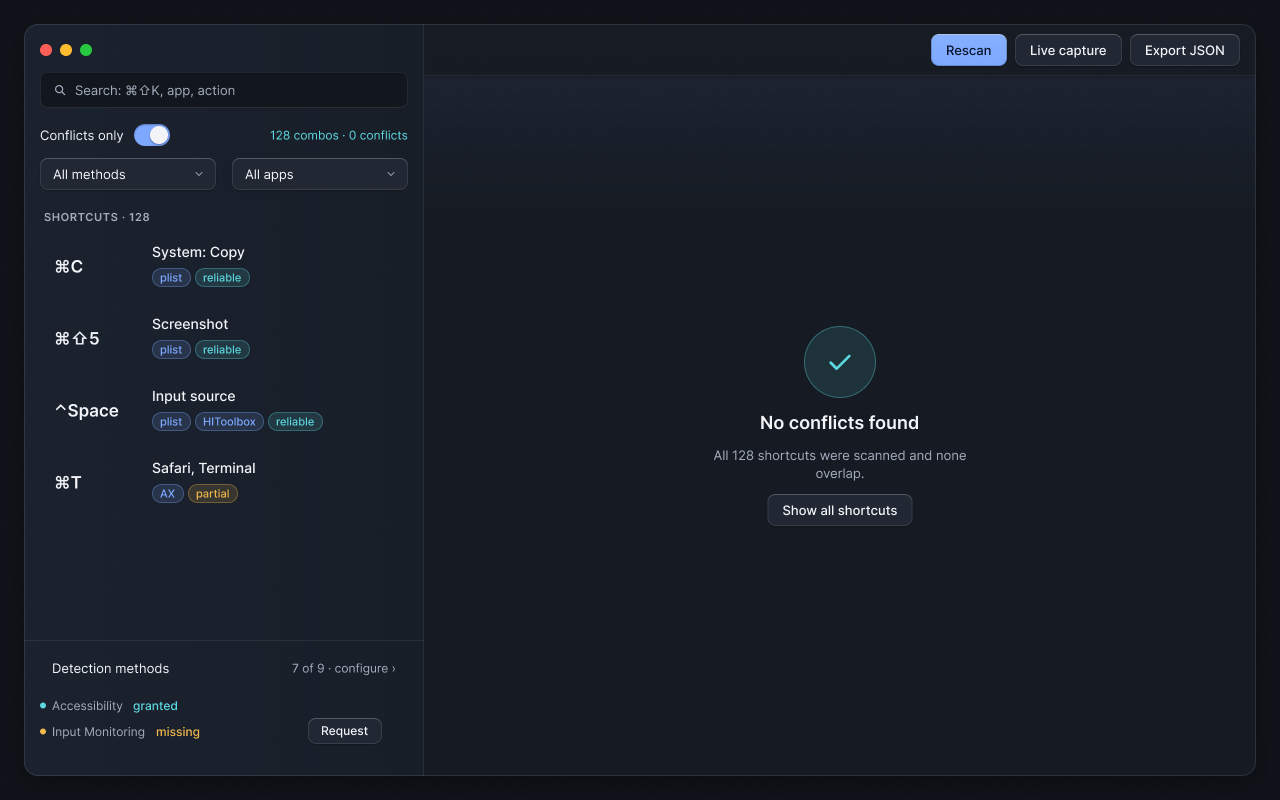
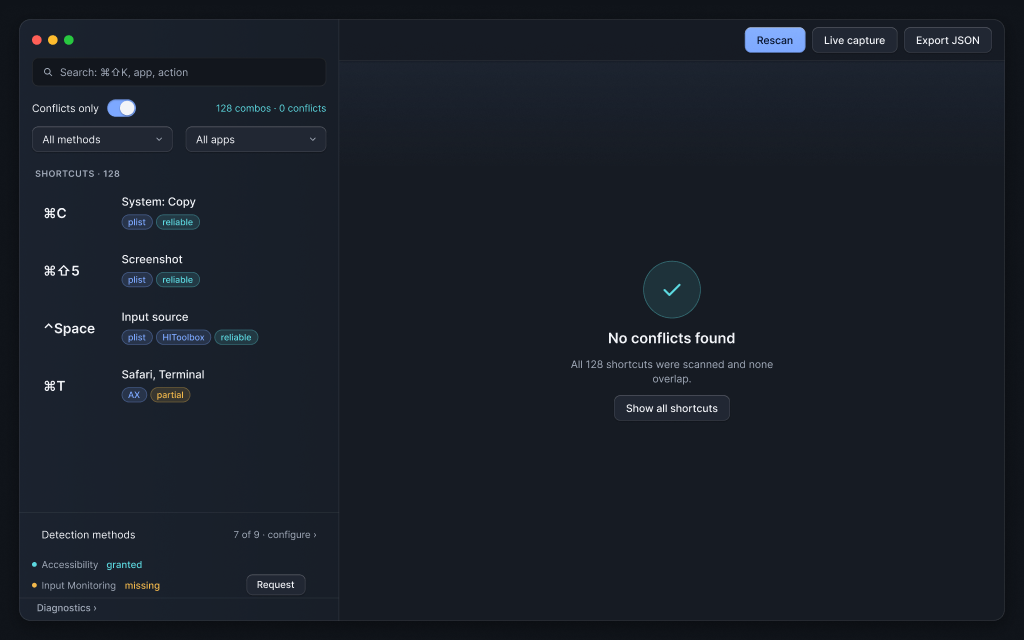
Row confidence/layout badges, copy alignment, design/ tokens, docs and Figma-exported screens

diff --git a/Sources/ShortcutClash/ContentView.swift b/Sources/ShortcutClash/ContentView.swift
@@ -173,28 +173,26 @@ struct SidebarView: View {
     @ViewBuilder private var listArea: some View {
         let rows = model.filteredGroups
         if model.isScanning && model.groups.isEmpty {
-            EmptyStateView(icon: .scan, tone: .accent, title: "Scanning shortcuts…",
-                           message: "Reading system settings, app menus and config files. This takes a few seconds.")
+            EmptyStateView(icon: .scan, tone: .accent, title: "Scanning…",
+                           message: "Running all enabled detection methods.")
         } else if model.scanFailed {
             EmptyStateView(icon: .warning, tone: .danger, title: "Scan failed",
-                           message: "No detection method could read shortcuts. Check diagnostics for the reason, then try again.",
-                           actions: [EmptyAction(title: "Try again", primary: true) { model.rescan() },
-                                     EmptyAction(title: "Open diagnostics") { model.showDiagnostics = true }])
+                           message: "One or more detection methods failed. Open Diagnostics for details.",
+                           actions: [EmptyAction(title: "Rescan", primary: true) { model.rescan() },
+                                     EmptyAction(title: "Diagnostics") { model.showDiagnostics = true }])
         } else if model.permissionNeeded {
-            EmptyStateView(icon: .lock, tone: .warn, title: "Permission needed",
-                           message: "Accessibility access lets ShortcutClash read app menus. Grant it in System Settings, then rescan.",
-                           actions: [EmptyAction(title: "Grant access", primary: true) { model.requestAccessibility() },
+            EmptyStateView(icon: .lock, tone: .warn, title: "Accessibility permission required",
+                           message: "Needed to read app menus and the global NSEvent monitor.",
+                           actions: [EmptyAction(title: "Request", primary: true) { model.requestAccessibility() },
                                      EmptyAction(title: "Open Settings") { Permissions.openSettings(for: .accessibility) }])
         } else if rows.isEmpty {
             if model.hasActiveFilters {
-                EmptyStateView(icon: .search, tone: .muted, title: "No matching shortcuts",
-                               message: model.trimmedQuery.isEmpty
-                                   ? "No shortcut matches the selected method or app."
-                                   : "Nothing matches “\(model.trimmedQuery)”. Try a key combination, an app name or an action.",
-                               actions: [EmptyAction(title: "Clear filters") { model.clearFilters() }])
+                EmptyStateView(icon: .search, tone: .accent, title: "Nothing found",
+                               message: "No shortcut matches your search. Try an app name, an action or a key combination.",
+                               actions: [EmptyAction(title: "Clear search") { model.clearFilters() }])
             } else if model.onlyConflicts && model.conflictCount == 0 {
                 EmptyStateView(icon: .check, tone: .ok, title: "No conflicts found",
-                               message: "Every shortcut found by the enabled methods has a single owner.",
+                               message: "All \(model.groups.count) shortcuts were scanned and none overlap.",
                                actions: [EmptyAction(title: "Show all shortcuts") { model.onlyConflicts = false }])
             } else {
                 EmptyStateView(icon: .search, tone: .muted, title: "No shortcuts found",
@@ -290,13 +288,13 @@ struct GroupRow: View {
                     .lineLimit(1)
                     .frame(maxWidth: .infinity, alignment: .leading)
                 ViewThatFits(in: .horizontal) {
-                    badges(limit: 3)
                     badges(limit: 2)
                     badges(limit: 1)
+                    badges(limit: 0)
                 }
             }
             trailing
-                .frame(width: Theme.Size.bead, height: Theme.Size.bead)
+                .frame(minWidth: Theme.Size.bead, minHeight: Theme.Size.bead)
         }
         .padding(.horizontal, 12)
         .frame(height: Theme.Size.row)
@@ -312,6 +310,9 @@ struct GroupRow: View {
         let methods = group.methods
         return HStack(spacing: 4) {
             ForEach(methods.prefix(limit)) { Badge(text: MethodShortName.of($0), tone: .accent) }
+            if let worst = group.findings.map(\.confidence).max() {
+                Badge(text: worst.label.lowercased(), tone: worst.tone)
+            }
             if methods.count > limit { Badge(text: "+\(methods.count - limit)") }
             if allOff { Badge(text: "Off") }
         }
@@ -324,7 +325,7 @@ struct GroupRow: View {
             CountBead(count: group.activeOwners.count)
                 .help("Conflict: \(group.activeOwners.count) owners")
         case .layoutConflict:
-            Image(systemName: "globe").foregroundStyle(Theme.warn).help("Layout conflict")
+            Badge(text: "layout", tone: .warn).help("Layout conflict")
         case .inAppDuplicate where showDuplicates:
             Image(systemName: "square.on.square").foregroundStyle(Theme.muted).help("Duplicate inside one app")
         default:
@@ -346,13 +347,18 @@ struct SidebarFooter: View {
                         MethodsView().environmentObject(model)
                     }
                 Spacer(minLength: 8)
-                Text("\(model.enabled.count) of \(model.strategies.count) enabled")
+                Text("\(model.enabled.count) of \(model.strategies.count) · configure")
                     .font(.system(size: 12)).foregroundStyle(Theme.muted)
-                    .padding(.trailing, 8)
-                FooterLink(title: "Diagnostics") { model.showDiagnostics = true }
+                Image(systemName: "chevron.right").font(.system(size: 9, weight: .semibold))
+                    .foregroundStyle(Theme.muted).padding(.leading, 4)
             }
             Rectangle().fill(Theme.hairline).frame(height: 1)
             PermissionBar()
+            Rectangle().fill(Theme.hairline).frame(height: 1)
+            HStack(spacing: 0) {
+                FooterLink(title: "Diagnostics") { model.showDiagnostics = true }
+                Spacer(minLength: 8)
+            }
         }
         .padding(.horizontal, 16)
         .padding(.vertical, 12)

diff --git a/Sources/ShortcutClash/PreviewFixtures.swift b/Sources/ShortcutClash/PreviewFixtures.swift
@@ -29,7 +29,7 @@ extension AppModel {
         results = PreviewFixtures.results(.healthy)
         findings = PreviewFixtures.findings
         regroup()
-        selection = groups.first?.id
+        selection = groups.first { $0.combo.display == "⌘Space" }?.id ?? groups.first?.id
 
         switch scenario {
         case .main:
@@ -38,7 +38,7 @@ extension AppModel {
             selection = nil
         case .noConflicts:
             findings = PreviewFixtures.findings.filter { $0.owner.name != "Alfred" && $0.owner.name != "Raycast"
-                && $0.owner.name != "CleanShot X" && $0.owner.name != "Hammerspoon" }
+                && $0.owner.name != "CleanShot X" && $0.owner.name != "Hammerspoon" && $0.action != "Comment Selection" }
             regroup()
             onlyConflicts = true
             selection = nil
@@ -98,9 +98,9 @@ enum PreviewFixtures {
 
     private static func hot(_ combo: KeyCombo, _ owner: HotKeyOwner, _ method: DiscoveryMethod,
                             _ confidence: Confidence, _ scope: HotKeyScope, _ action: String, source: String,
-                            enabled: Bool = true) -> DiscoveredHotKey {
+                            enabled: Bool = true, character: String? = nil) -> DiscoveredHotKey {
         DiscoveredHotKey(combo: combo, owner: owner, method: method, confidence: confidence, scope: scope,
-                         action: action, enabled: enabled, source: source)
+                         action: action, enabled: enabled, source: source, definingCharacter: character)
     }
 
     static let findings: [DiscoveredHotKey] = {
@@ -144,6 +144,10 @@ enum PreviewFixtures {
             hot(cmdN, notes, .accessibilityMenus, .reliable, .inApp, "New Note", source: "AX: File ▸ New Note"),
             hot(cmdD, safari, .accessibilityMenus, .reliable, .inApp, "Add Bookmark…", source: "AX: Bookmarks ▸ Add Bookmark…"),
             hot(cmdB, notes, .accessibilityMenus, .reliable, .inApp, "Bold", source: "AX: Format ▸ Font ▸ Bold"),
+            hot(combo(44, .command), xcode, .accessibilityMenus, .heuristic, .inApp, "Comment Selection",
+                source: "AX: Editor ▸ Structure ▸ Comment Selection", character: "/"),
+            hot(combo(27, .command), macOS, .symbolicHotKeys, .reliable, .global, "Zoom out",
+                source: "com.apple.symbolichotkeys · AppleSymbolicHotKeys 19"),
             hot(optSpace, macOS, .symbolicHotKeys, .reliable, .global, "Select the previous input source",
                 source: "com.apple.symbolichotkeys · AppleSymbolicHotKeys 60", enabled: false),
         ]
@@ -151,7 +155,9 @@ enum PreviewFixtures {
 
     static let layouts = LayoutSnapshot(layouts: [
         .init(id: "com.apple.keylayout.ABC", name: "ABC", isCurrent: true, isASCIICapable: true,
-              unshifted: [49: " ", 21: "4", 40: "k", 17: "t"], shifted: [21: "$", 40: "K", 17: "T"]),
+              unshifted: [49: " ", 21: "4", 40: "k", 17: "t", 44: "/"], shifted: [21: "$", 40: "K", 17: "T"]),
+        .init(id: "com.apple.keylayout.Dvorak", name: "Dvorak", isCurrent: false, isASCIICapable: true,
+              unshifted: [49: " ", 27: "/", 44: "z"], shifted: [27: "?"]),
         .init(id: "com.apple.keylayout.Ukrainian-PC", name: "Ukrainian", isCurrent: false, isASCIICapable: false,
               unshifted: [49: " ", 21: "4", 40: "л", 17: "е"], shifted: [21: ";", 40: "Л", 17: "Е"]),
     ], perDocumentInputSource: false)

diff --git a/Sources/ShortcutClash/DetailView.swift b/Sources/ShortcutClash/DetailView.swift
@@ -11,8 +11,8 @@ struct DetailPane: View {
             if let group = model.group(with: model.selection) {
                 DetailView(group: group)
             } else {
-                EmptyStateView(icon: .cursor, tone: .muted, title: "Select a shortcut",
-                               message: "Pick a key combination on the left to see who owns it and which method found it.")
+                EmptyStateView(icon: .cursor, tone: .accent, title: "Select a shortcut",
+                               message: "Pick a shortcut on the left to see who owns it and how it was detected.")
             }
         }
         .frame(maxWidth: .infinity, maxHeight: .infinity)
@@ -68,12 +68,12 @@ struct DetailView: View {
                 winnerLine(ranking)
             }
             HStack(alignment: .center, spacing: 8) {
-                Text("Detected by").font(.system(size: 12)).foregroundStyle(Theme.muted)
+                Text("Detected by:").font(.system(size: 12)).foregroundStyle(Theme.muted)
                 FlowLayout {
-                    ForEach(group.methods) { Badge(text: StrategyRegistry.displayName($0), tone: .accent) }
+                    ForEach(group.methods) { Badge(text: MethodShortName.of($0), tone: .accent) }
                 }
             }
-            Text("Key code \(group.combo.keyCode) · modifiers: \(group.combo.modifiers.symbols.isEmpty ? "none" : group.combo.modifiers.symbols)")
+            Text("Key code: \(group.combo.keyCode) · modifiers: \(group.combo.modifiers.symbols.isEmpty ? "none" : group.combo.modifiers.symbols)")
                 .font(.system(size: 12, design: .monospaced))
                 .foregroundStyle(Theme.muted)
         }
@@ -97,7 +97,7 @@ struct DetailView: View {
     private var explanation: String {
         switch group.status {
         case .conflict:
-            return "Several owners claim this shortcut and at least one is global, so only one of them fires."
+            return "This shortcut is claimed by several owners, and at least one of them is global, so only one of them will fire."
         case .layoutConflict:
             return "The shortcut itself is free, but in another enabled keyboard layout its character lands on a key that is already taken."
         case .inAppDuplicate:

diff --git a/design/tokens.css b/design/tokens.css
@@ -197,3 +197,15 @@
   :root { --sc-dur-press: 0ms; --sc-dur-focus: 0ms; --sc-dur-hover: 0ms; --sc-dur-input-focus: 0ms; --sc-dur-switch: 0ms; --sc-dur-release: 0ms; --sc-dur-theme: 0ms; }
   .sc-button:hover { transform: none; }
 }
+
+/* Added with the app screens (methods popover, live capture and diagnostics sheets, footer). */
+:root {
+  --sc-size-popover-w: 520px; --sc-size-popover-h: 600px; --sc-size-popover-header: 52px;
+  --sc-size-sheet-w: 640px; --sc-size-sheet-capture-h: 520px; --sc-size-sheet-diagnostics-h: 560px; --sc-size-sheet-header: 56px;
+  --sc-size-status-dot: 6px; --sc-size-footer-row: 26px; --sc-size-footer-link: 24px;
+}
+.sc-popover, .sc-sheet { background: var(--sc-surface); border: 1px solid var(--sc-border); border-radius: var(--sc-radius-card); box-shadow: 0 6px 24px var(--sc-shadow); }
+.sc-hairline { height: 1px; background: var(--sc-hairline); }
+.sc-footer-link { color: var(--sc-muted); font: 500 12px/16px var(--sc-font-sans); height: 24px; padding: 0 6px; background: none; border: 0; }
+.sc-footer-link:hover { color: var(--sc-fg); }
+.sc-footer-link:focus-visible { outline: 2px solid var(--sc-focus-ring); border-radius: 6px; }

diff --git a/Sources/ShortcutClash/LiveCaptureView.swift b/Sources/ShortcutClash/LiveCaptureView.swift
@@ -76,9 +76,9 @@ struct LiveCaptureView: View {
         @ViewBuilder private func logArea(_ display: CaptureDisplay) -> some View {
             if display.observations.isEmpty {
                 if display.isRunning {
-                    EmptyStateView(icon: .record, tone: .accent, title: "Waiting for key presses",
-                                   message: "Press a shortcut anywhere. It will show up here with the verdict on who received it.",
-                                   actions: [EmptyAction(title: "Stop recording") { model.toggleCapture() }])
+                    EmptyStateView(icon: .record, tone: .accent, title: "Waiting for key presses…",
+                                   message: "Press a shortcut with ⌘, ^, ⌥ or an F-key. Plain typing is not recorded.",
+                                   actions: [EmptyAction(title: "Stop") { model.toggleCapture() }])
                 } else {
                     EmptyStateView(icon: .record, tone: .muted, title: "Live capture is off",
                                    message: "Start recording, then press a shortcut to see whether a global interceptor takes it.",

diff --git a/design/README.md b/design/README.md
@@ -16,17 +16,24 @@ English-only design handoff for the ShortcutClash macOS app. v3 returns to the o
 |---|---|
 | screens/main-dark.png, screens/main-light.png | Main screen, conflict list first (1280x800) |
 | screens/no-conflicts-dark.png, screens/no-conflicts-light.png | Main screen with no conflicts (EmptyState) |
-| screens/empty-states-dark.png, screens/empty-states-light.png | All seven EmptyState variants and the pattern note |
+| screens/empty-states-dark.png, screens/empty-states-light.png | All eight EmptyState variants and the pattern note |
 | screens/components-dark.png, screens/components-light.png | Buttons, input, switch, row, badges, bead, selects with all states |
+| screens/methods-dark.png, screens/methods-light.png | Detection methods popover (520x600) |
+| screens/capture-off-*.png, capture-waiting-*.png, capture-log-*.png (dark and light) | Live capture sheet states (640x520) |
+| screens/empty-live-off-dark.png, screens/empty-live-off-light.png | Eighth EmptyState: "Live capture is off" |
+| screens/diagnostics-dark.png, screens/diagnostics-light.png | Diagnostics sheet (640x560) |
+| screens/footer-dark.png, screens/footer-light.png | Sidebar footer: methods link, permission rows, Diagnostics link |
+| [APP-SCREENS.md](APP-SCREENS.md) | The app screens that go beyond the main screen, with exact values |
 
 ## Figma
 
 File key `0ReL88zpUMqzQBGEklkq9v` (https://www.figma.com/design/0ReL88zpUMqzQBGEklkq9v).
 
 - Screens page, section "ShortcutClash v3 - minimal glass - English - light + dark" (`89:33759`): main dark `89:33760`, main light `89:33893`, no-conflicts dark `89:34026`, light `89:34116`, empty states dark `89:34206`, light `89:34284`.
+- Screens page, same section, added with the app screens: Detection methods popover dark `94:33771` / light `94:33819`; Live capture dark `93:33759` / light `93:33881` (sheets off `93:33761` / `93:33883`, waiting `93:33794` / `93:33916`, log `93:33825` / `93:33947`); Diagnostics dark `95:33759` / light `95:33819`; Sidebar footer dark `94:33867` / light `94:33905`; Empty state "live capture is off" dark `95:33804` / light `95:33864`. The main frames' footers also carry the "Diagnostics ›" link.
 - Components page, section "ShortcutClash v3 - minimal glass components - states - light + dark" (`89:34417`): dark `89:34418`, light `89:34635`.
 - Older sections are kept and labelled "v1 (superseded)" and "v2 (superseded)". Implement from v3 only.
 
 ## Scope
 
-One main screen (conflict list first, detail on the right) plus its empty states. Hotkey-method settings are not a separate screen; see DESIGN-FOR-AGENTS.md, "Methods and settings". This package does not change app code (`Sources/`). Figma uses Inter as a stand-in for SF Pro.
+One main screen (conflict list first, detail on the right), its empty states, the Detection methods popover, the Live capture and Diagnostics sheets and the footer links (see APP-SCREENS.md). The design is implemented in `Sources/ShortcutClash` (Theme.swift, Components.swift); `Sources/ShortcutClashCore` is untouched by the design. The docs are English only; there are no ru/uk copies. Figma uses Inter as a stand-in for SF Pro.

diff --git a/design/DESIGN-FOR-AGENTS.md b/design/DESIGN-FOR-AGENTS.md
@@ -47,11 +47,17 @@ Vertical stack, center-aligned, gap 12: orb 72 (tone fill 12%, 1 px tone border)
 | no-results | magnifier / accent | Nothing found | Clear search |
 | nothing-selected | cursor / accent | Select a shortcut | none |
 | live-waiting | record / accent | Waiting for key presses… | Stop |
+| live-off | record / muted | Live capture is off | Start recording (primary) |
 | scanning | 3/4 arc / accent | Scanning… | none |
 | permission | lock / warn | Accessibility permission required | Request (primary), Open Settings |
 | scan-failed | triangle / danger | Scan failed | Rescan (primary), Diagnostics |
 
 Use it in the detail pane and in the list when it is empty. Copy that is derived, not literal app text: "Show all shortcuts", "Clear search", the Scan failed body and "Open Settings". Confirm against the app's real strings.
+
+Sidebar rows also carry the weakest confidence of the group as a badge (reliable ok, partial warn, heuristic muted) after the method badges, and a conflict through layout shows a right-aligned warn badge "layout" instead of the count bead. Rows fit at most two method badges, then the confidence badge, then "+N".
+
+## 4b. App screens beyond the main frame
+Detection methods popover, Live capture sheet, Diagnostics sheet and the footer links are specified in APP-SCREENS.md. Footer: "Detection methods" nav row with "N of M · configure ›", permission rows, then a quiet "Diagnostics ›" link; no buttons or fills.
 
 ## 5. Themes
 Implement the dark and light sets as dynamic colors in a `Theme.swift` resolved through the effective appearance. Follow the system, allow an override, cross-fade 200 ms. Replace hardcoded `.red/.blue/.green` with `danger`, `accent`, `ok`, `warn`. "All fine" uses `ok` (teal).
@@ -82,7 +88,7 @@ Anything that looks centered is centered on its bounding box on both axes via st
 - [ ] Only sidebar and toolbar are translucent (88-92%, blur 10); no other blur
 - [ ] One soft shadow per element; no glow, blob or thick edge
 - [ ] Buttons: 1 px highlight, 1 px hover lift, subtle press, focus ring
-- [ ] All seven empty states exist, centered on one vertical axis
+- [ ] All eight empty states exist, centered on one vertical axis
 - [ ] All text AA on every surface; Reduce Transparency and Reduce Motion work
 - [ ] Centering verified on a screenshot of every screen (bounding-box centers within 0.6 px)
 - [ ] All UI strings English

diff --git a/design/STYLE-GUIDE.md b/design/STYLE-GUIDE.md
@@ -50,6 +50,9 @@ Follow the system appearance with an optional manual override (system, light, da
 ## 8. EmptyState pattern
 One shared pattern, one vertical axis, gap 12: orb 72 (flat tone fill 12% and 1 px tone border) with a vector icon, title 18/24 semibold, body 13/18 muted (max 300), actions as 32 px buttons with gap 10. Variants: no conflicts (ok), nothing found, nothing selected, live capture waiting, scanning, permission needed (warn), scan failed (danger). Copy marked derived in DESIGN-FOR-AGENTS.md should be checked against the app's real strings.
 
+### Sheets and popovers
+Popover 520x600 and sheets 640x520 / 640x560 are solid `surface` with a 1 px `border`, radius 12 and the window shadow; they are never translucent. Headers are 52 (popover) or 56 (sheets) high with a 1 px hairline below; the title is 15/semibold (popover) or 18/semibold (sheets). Content rows are separated by 1 px hairlines, not boxes.
+
 ## 9. Centering rule
 Anything that looks centered is centered on its geometric bounding box on both axes, using stack/auto-layout alignment, never manual offsets. Button labels, badge text, count digits, orb icons, input icon and text, select label and chevron, switch knob, row combos and EmptyState content are all measured. The only optical nudge is +1 px on the warning triangle in its orb. Verified in Figma on the final build: 392 checks, bounding-box centers within 0.6 px, no failures.
 

diff --git a/design/APP-SCREENS.md b/design/APP-SCREENS.md
@@ -1,9 +1,8 @@
 # App screens beyond the v3 Figma frames
 
-The v3 Figma file has frames for the main screen, the detail pane, six empty states and the component sheet
-(see `design/` on PR #1). The app has more views than that. They were designed together with the SwiftUI
+The v3 Figma file first had frames for the main screen, the detail pane, seven empty-state tiles and the component sheet. The app has more views than that. They were designed together with the SwiftUI
 implementation from the same tokens (`Theme.swift` mirrors `design/tokens.json`) and are documented here so
-`design/` stays the source of truth. Figma frames for them are still to be added (see the PR description).
+`design/` stays the source of truth. Their Figma frames are in the v3 Screens section (node ids in README.md) and exported to `design/screens/`.
 
 ## Layout (all screens)
 
